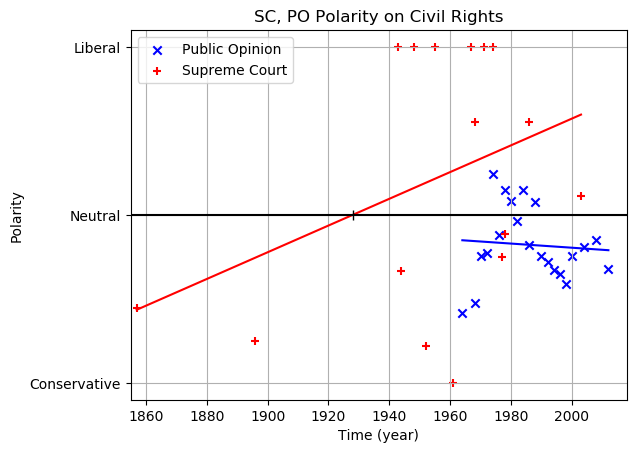
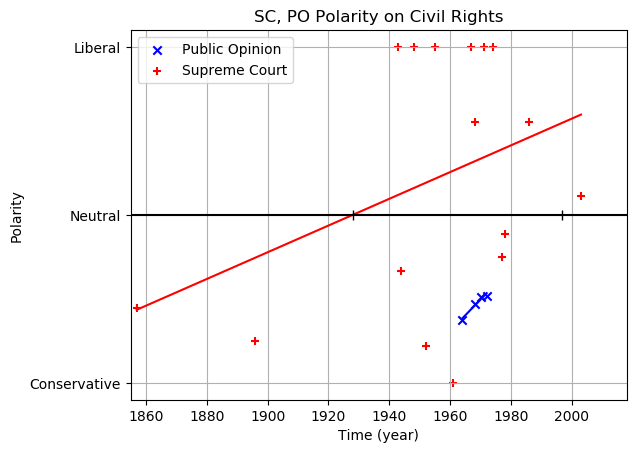
cleaned up

diff --git a/keywords_to_id.py b/keywords_to_id.py
@@ -63,22 +63,6 @@ civil_rights_cases=["Dred Scott v. Sandford (1856)",
 #check for misspellings
 #check year to avoid repeats
 #don't use indices - merging dfs will mess with this!
-poss_match={'Dred Scott v. Sandford (1856)': [2488],
-'Plessy v. Ferguson (1896)': [10220],
-'Korematsu v. UNITED STATES (1942)': [19387, 19575],
-'Korematsu v. UNITED STATES (1944)': [19387, 19575],
-'Shelley v. Kraemer (1948)': [20272, 20273],
-'Brown v. Board of Education (1954)': [21112, 21113, 21114, 21129, 21421, 21562],
-'Brown v. Board of Education (1955)': [21112, 21113, 21114, 21129, 21421, 21562],
-'Bailey v. Patterson (1962)': [22828, 22857, 22858, 22859],
-'Loving v. Virginia (1967)': [24116, 24117],
-'Jones v. Mayer Co. (1968)': [24444, 24445, 24446],
-'Griggs v. Duke Power Co. (1971)': [25009],
-'Lau v. Nichols (1974)': [25736],
-'Village of Arlington Heights v. Metropolitan Housing Development Corp. (1977)': [26502, 26503],
-'Regents of the University of California v. Bakke (1978)': [26966, 26967, 26968],
-'Batson v. Kentucky (1986)': [28853, 28854],
-'Grutter v. Bollinger (2003)': [31724, 31725, 31726]}
 
 #CASE IDS
 civil_rights_ind=[2488,
@@ -98,8 +82,6 @@ civil_rights_ind=[2488,
 28853,
 31724
 ]
-
-civil_rights_rel_ques=['VCF0216', 'VCF0517', 'VCF0518', 'VCF0830', 'VCF0860', 'VCF0861', 'VCF0862', 'VCF0863', 'VCF0864', 'VCF0865', 'VCF0866', 'VCF0867', 'VCF9037']
 
 civil_rights_resp_conv={
     'VCF0216': {i:i for i in range(97)}, #polarity unclear as HOT/COLD is hard to judge
@@ -135,8 +117,6 @@ GAY_KEYWORDS=['gay','lesbian','marriage','same-sex','same sex','homosexual','spo
 gay_marriage_ids=['1985-144','1995-053','2002-083','2012-077','2012-079','2014-070'] #weirdly caseId 1966-119, Loving v. VA is entered twice
 #N.B.: case indices are unique, but only for *case* centered data.
 gay_marriage_ind=[28947,30801,31731,32844,32846,33022]
-
-gay_marriage_rel_ques=['VCF0232','VCF0877','VCF0878','VCF0876','VCF0876a']
 
 gay_resp_conv={
     'VCF0232': {i: i-48 for i in range(97)}, #polarity unclear as HOT/COLD is hard to judge

diff --git a/load_data.py b/load_data.py
@@ -23,7 +23,7 @@ RESP_CONVERT=civil_rights_resp_conv
 #COMPUTED FROM INPUT
 SC_REL_IND=civil_rights_ind
 #identifiers for RELEVANT QUESTIONS from ANES PO surveys
-PO_REL_QUES=civil_rights_rel_ques
+PO_REL_QUES=list(RESP_CONVERT.keys())
 
 #DATA
 ######################################################################
